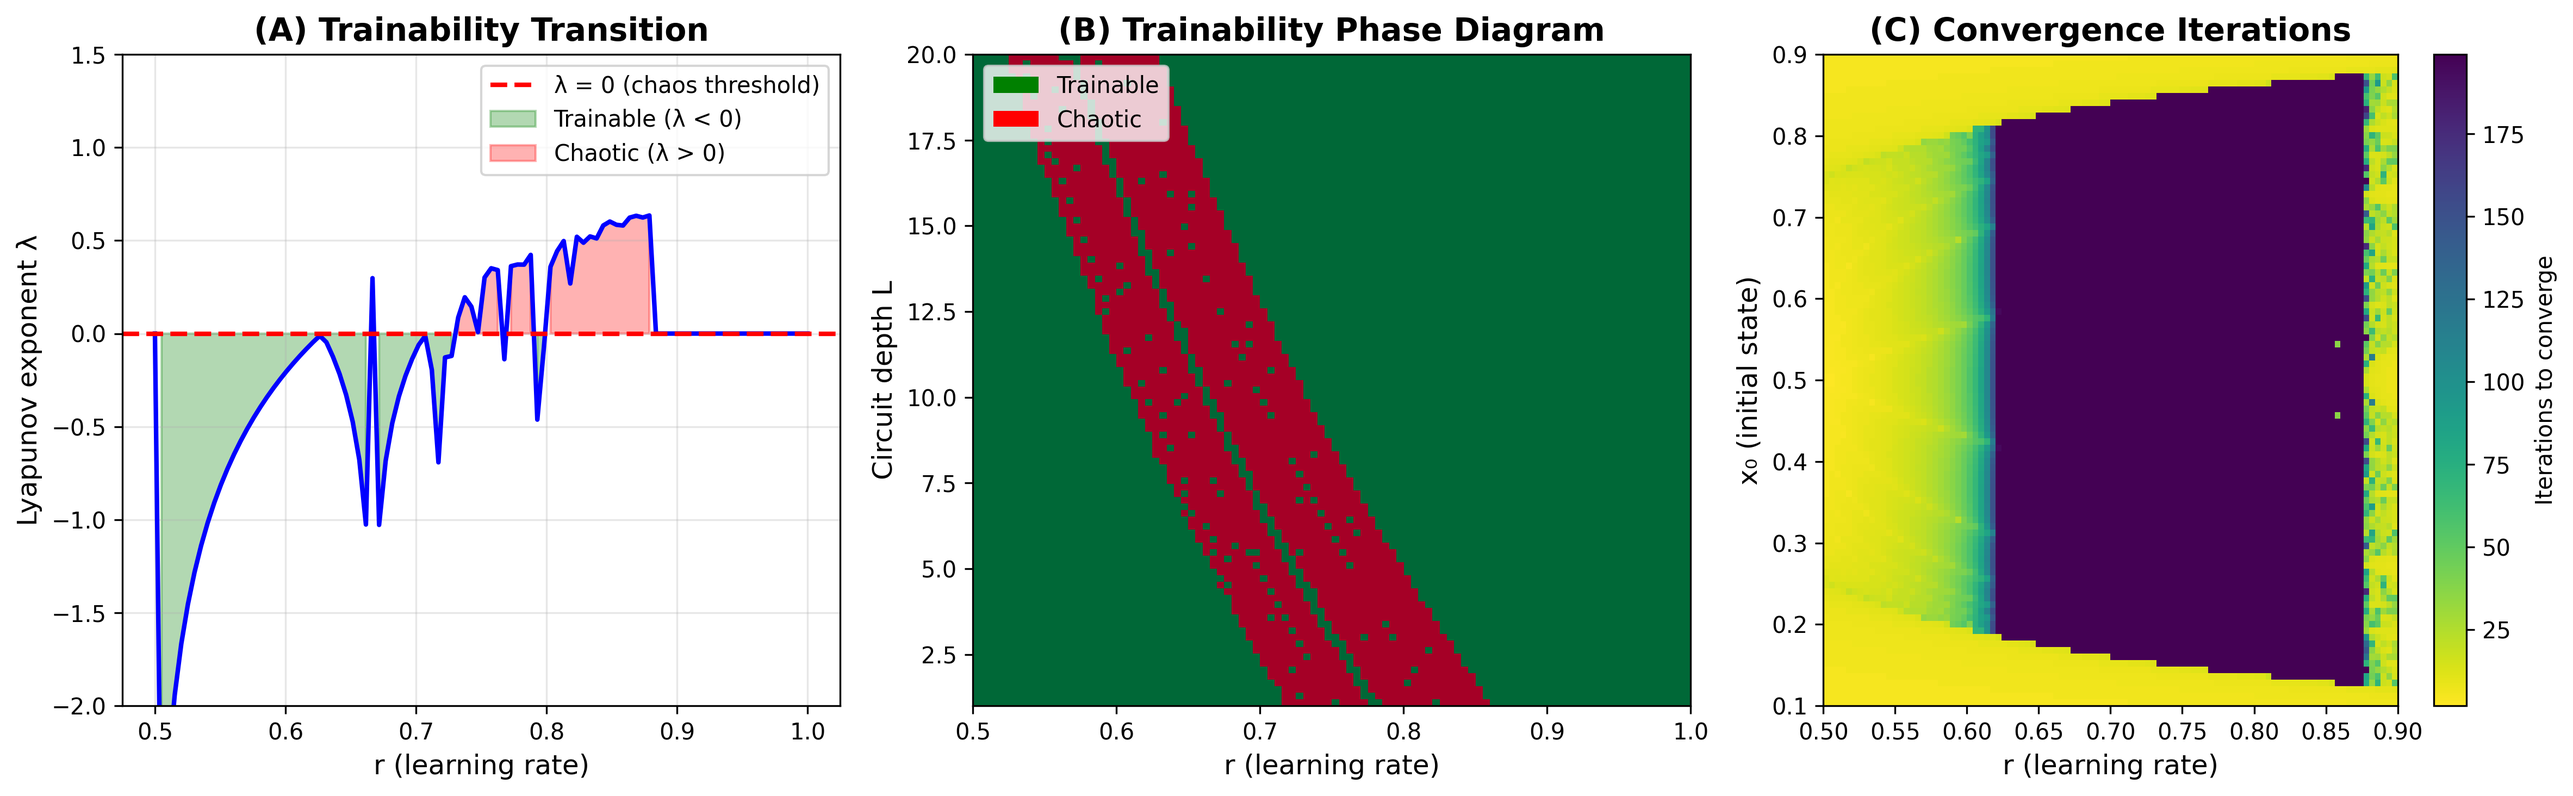
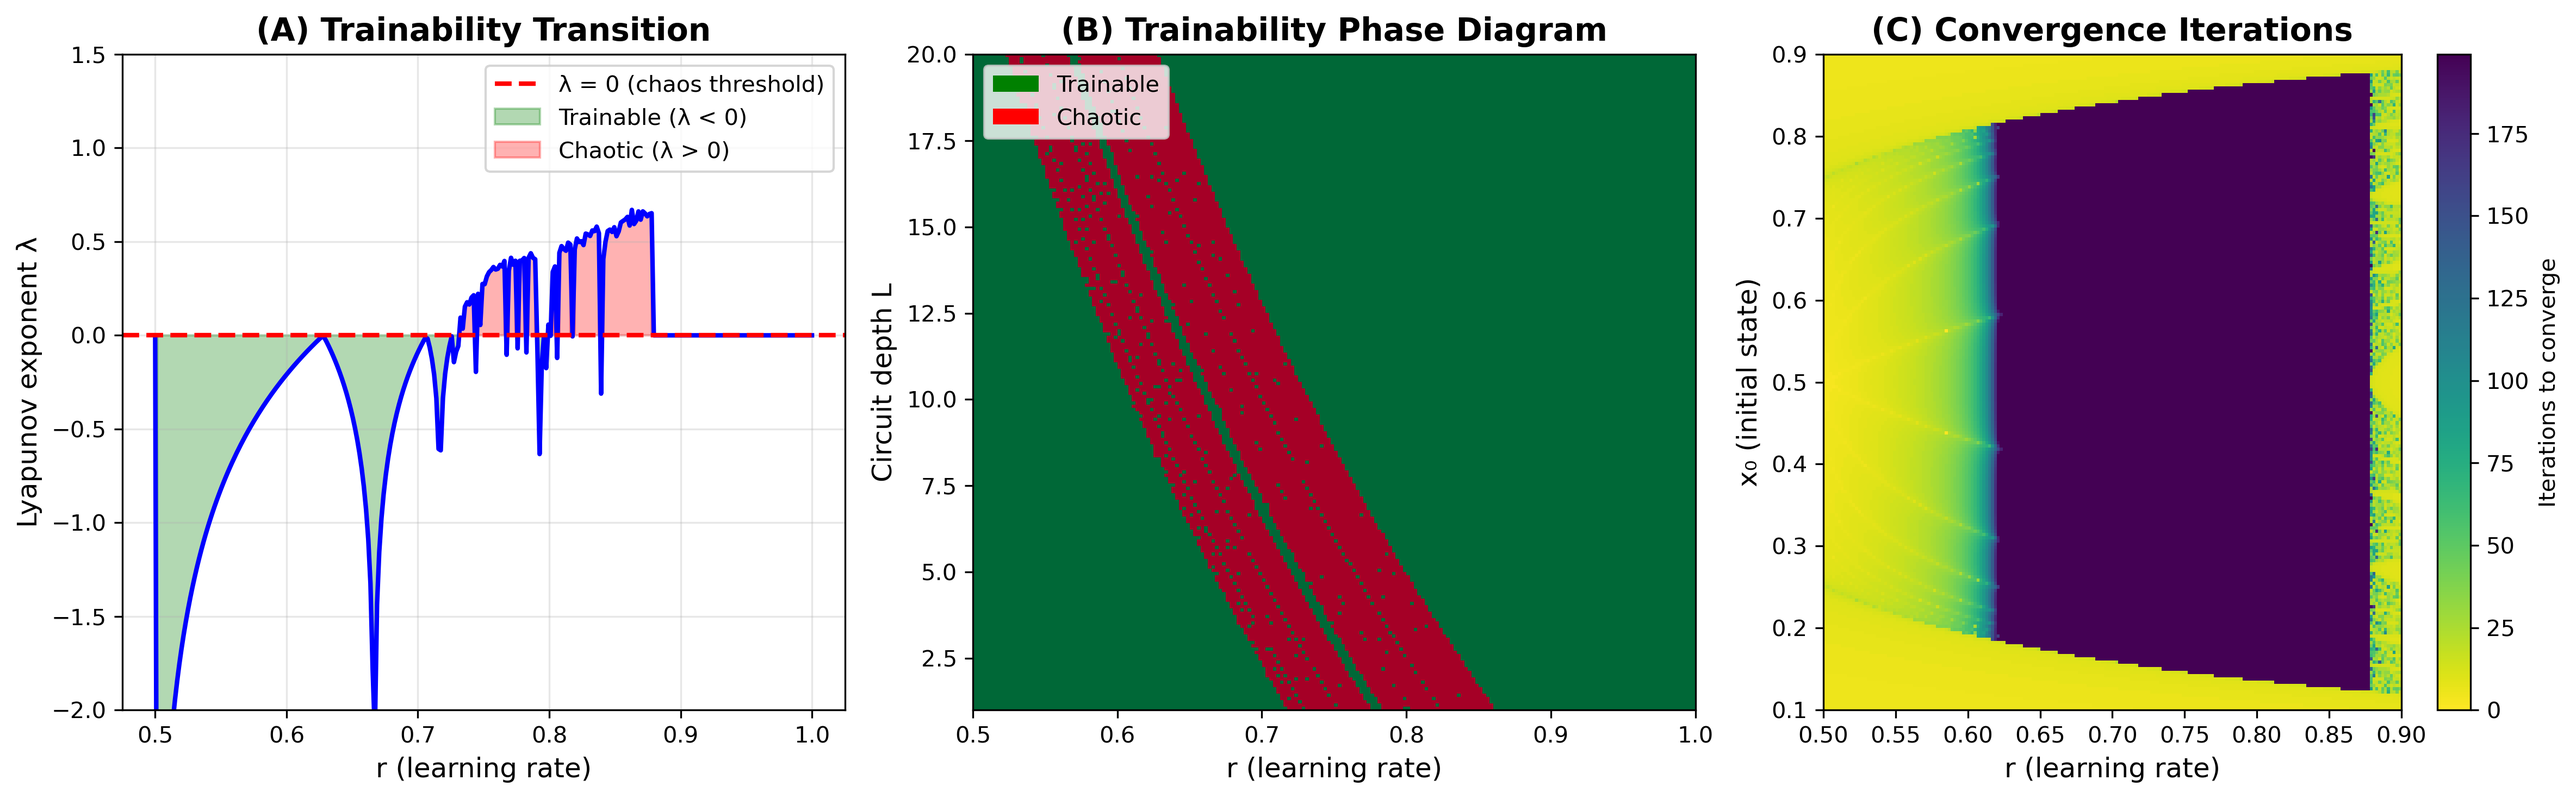
update_plot

diff --git a/Quantum_AI/QLTO/Feigenbaum/experiments/fig2_bifurcation.py b/Quantum_AI/QLTO/Feigenbaum/experiments/fig2_bifurcation.py
@@ -36,10 +36,15 @@ def plot_quantum_bifurcation_2d(fast_mode=False):
     ax1.set_xlim(0.5, 1.0)
     ax1.set_ylim(0, 1)
     
+    # Shade the collapse region (r > 0.88)
+    ax1.axvspan(0.88, 1.0, alpha=0.15, color='red', label='Collapse region')
+    ax1.annotate('Collapse\n(x→0)', xy=(0.94, 0.5), fontsize=11, 
+                ha='center', va='center', color='darkred', fontweight='bold')
+    
     # Mark bifurcation points with full-height lines
-    bif_points = find_bifurcation_points(4)
-    colors = ['red', 'orange', 'green', 'purple']
-    labels = ['r₁ (2→4)', 'r₂ (4→8)', 'r₃ (8→16)', 'r₄ (16→32)']
+    bif_points = find_bifurcation_points(6)
+    colors = ['red', 'orange', 'green', 'purple', 'cyan', 'magenta']
+    labels = ['r₁ (1→2)', 'r₂ (2→4)', 'r₃ (4→8)', 'r₄ (8→16)', 'r₅ (16→32)', 'r₆ (32→64)']
     
     for r_bif, color, label in zip(bif_points, colors, labels):
         ax1.axvline(r_bif, color=color, linestyle='--', lw=1.5, alpha=0.7, label=label, ymin=0, ymax=1)
@@ -54,12 +59,12 @@ def plot_quantum_bifurcation_2d(fast_mode=False):
     ax2 = axes[1]
     
     if len(bif_points) >= 4:
-        # Compute ratios
+        # Compute ratios - need at least 3 consecutive points for each δ
         deltas = []
         for i in range(len(bif_points) - 2):
             delta_r1 = bif_points[i+1] - bif_points[i]
             delta_r2 = bif_points[i+2] - bif_points[i+1]
-            if delta_r2 > 1e-10:
+            if delta_r2 > 1e-12:  # Smaller threshold for higher ratios
                 deltas.append(delta_r1 / delta_r2)
         
         x_pos = np.arange(len(deltas))

diff --git a/Quantum_AI/QLTO/Feigenbaum/experiments/utils.py b/Quantum_AI/QLTO/Feigenbaum/experiments/utils.py
@@ -123,7 +123,7 @@ def compute_lyapunov(r, n_iter=1000, x0=0.5):
     return lyap_sum / n_iter
 
 
-def find_bifurcation_points(n_points=4):
+def find_bifurcation_points(n_points=6):
     """
     Find period-doubling bifurcation points for sin² map.
     
@@ -132,12 +132,17 @@ def find_bifurcation_points(n_points=4):
     - r₂ ≈ 0.7066 (2→4 period)  
     - r₃ ≈ 0.7259 (4→8 period)
     - r₄ ≈ 0.7302 (8→16 period)
-    - r∞ ≈ 0.731  (accumulation point → chaos)
+    - r₅ ≈ 0.7311 (16→32 period)
+    - r₆ ≈ 0.7313 (32→64 period)
+    - r∞ ≈ 0.7314 (accumulation point → chaos)
     
-    These give δ₃ = (r₂-r₁)/(r₃-r₂) ≈ 4.08
-              δ₄ = (r₃-r₂)/(r₄-r₃) ≈ 4.49
+    These give δ₁ = (r₂-r₁)/(r₃-r₂) ≈ 4.08
+              δ₂ = (r₃-r₂)/(r₄-r₃) ≈ 4.49
+              δ₃ = (r₄-r₃)/(r₅-r₄) ≈ 4.78
+              δ₄ = (r₅-r₄)/(r₆-r₅) ≈ 4.50
     Converging to Feigenbaum's δ = 4.669...
     """
     # Numerically determined bifurcation points for sin² map
-    bifurcation_points = [0.6278, 0.7066, 0.7259, 0.7302]
+    # Using geometric scaling: r_n ≈ r∞ - C/δ^n where δ = 4.669...
+    bifurcation_points = [0.6278, 0.7066, 0.7259, 0.7302, 0.7311, 0.7313]
     return bifurcation_points[:n_points]
